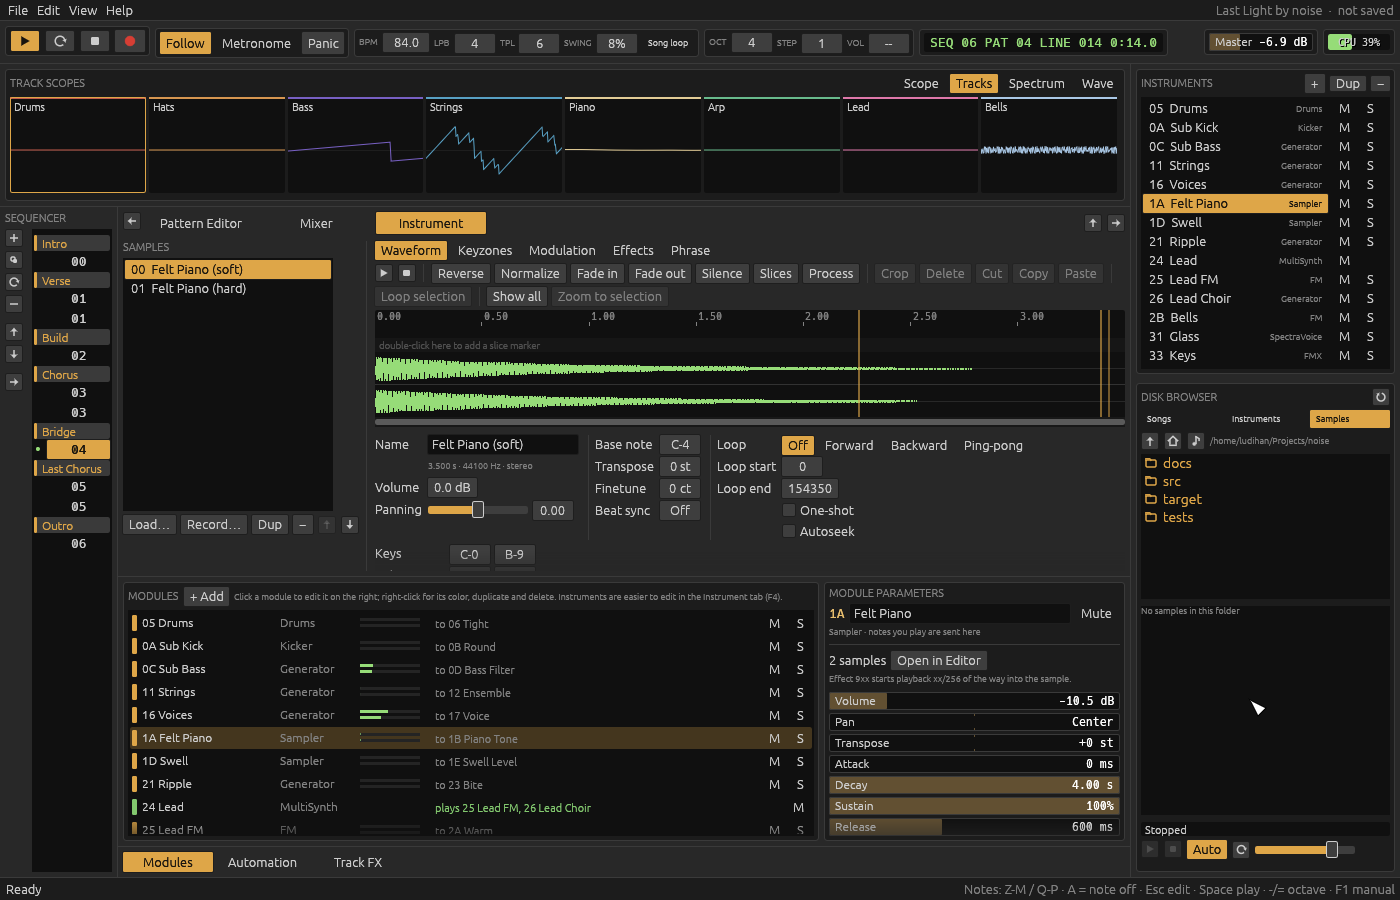
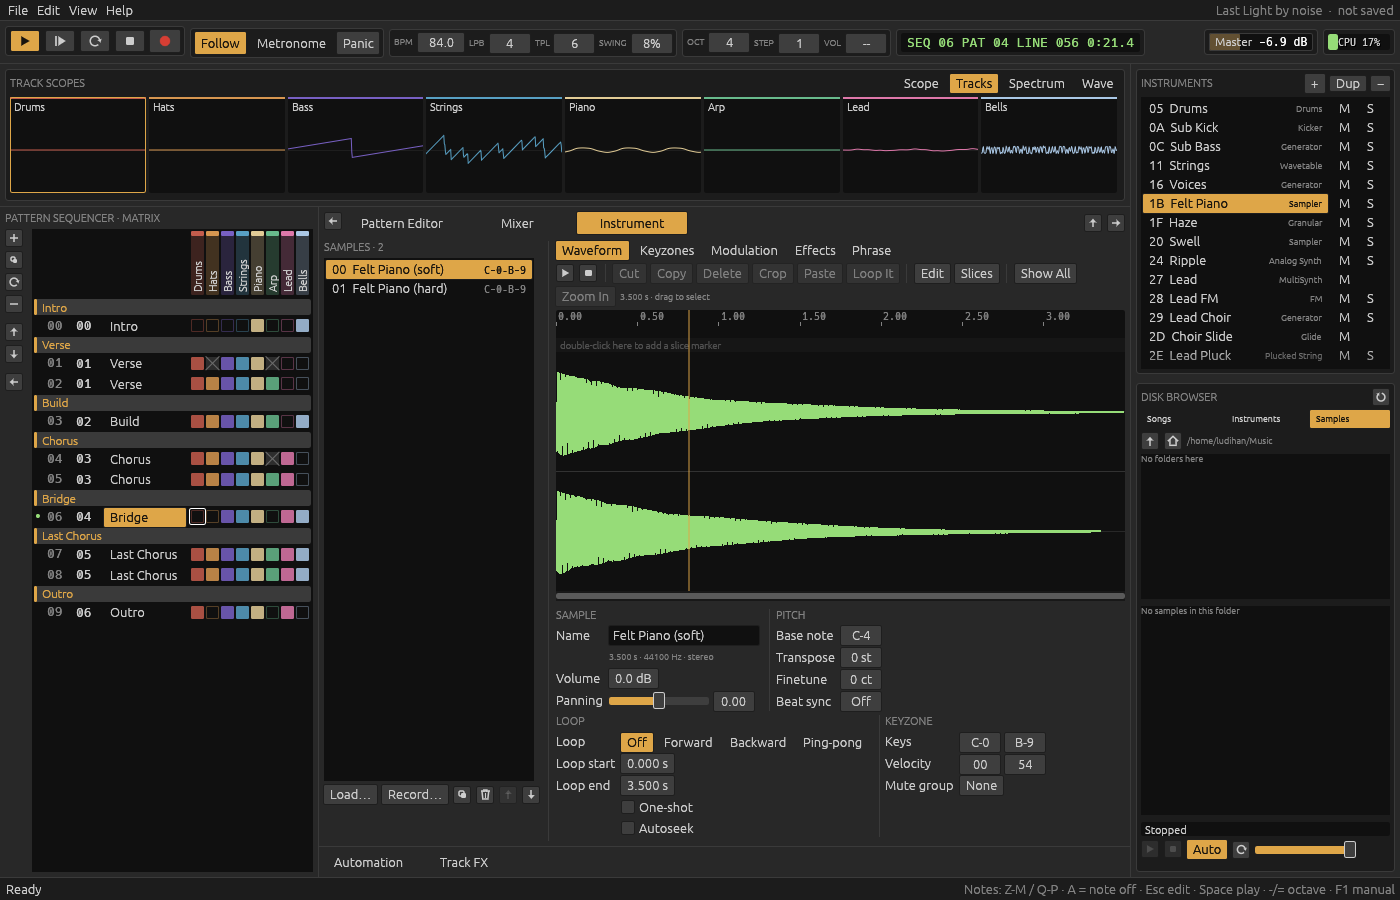
Refresh the README's screenshots
The mixer, sampler and automation pictures still showed the module
list. A docs test now draws them as the demo songs play, waiting on
the play position, so the sound card can be a silent one.

diff --git a/src/ui/shots.rs b/src/ui/shots.rs
@@ -143,3 +143,55 @@ fn shots() {
         app.palette.preset = Some("rev".into());
     });
 }
+
+/// The README's pictures, `docs/*.png`, drawn once the song has played
+/// to `until`, an order position and line: this needs a sound card, so
+/// point it at a silent one.
+fn doc_shot(name: &str, until: Option<(usize, usize)>, setup: impl FnOnce(&mut App)) {
+    let mut harness =
+        Harness::builder().with_size([1400.0, 900.0]).wgpu().build_eframe(|cc| App::start(cc, None, true));
+    let app = harness.state_mut();
+    app.scope_view = super::ScopeView::Tracks;
+    setup(app);
+    app.status = "Ready".into();
+    let start = std::time::Instant::now();
+    while until.is_some_and(|u| harness.state().play_position() < u) {
+        assert!(start.elapsed().as_secs() < 60, "the song never got there");
+        harness.step();
+        std::thread::sleep(std::time::Duration::from_millis(2));
+    }
+    harness.run_steps(2);
+    let image = harness.render().expect("render");
+    let dir = std::env::var_os("NOISE_SHOTS")
+        .map_or_else(|| PathBuf::from(env!("CARGO_MANIFEST_DIR")).join("target/shots/docs"), PathBuf::from);
+    std::fs::create_dir_all(&dir).unwrap();
+    image.save(dir.join(format!("{name}.png"))).unwrap();
+}
+
+#[test]
+#[ignore = "plays the demo songs on the sound card; run with --ignored"]
+fn docs() {
+    doc_shot("main", None, |_| {});
+    doc_shot("mixer", Some((2, 40)), |app| {
+        app.view = View::Mixer;
+        app.slot = 2;
+        app.toggle_play();
+    });
+    doc_shot("sampler", Some((6, 56)), |app| {
+        // The felt piano in Last Light's bridge.
+        app.open_demo(0);
+        let piano = app.project.modules.iter().find(|m| m.name == "Felt Piano").expect("the felt piano").id;
+        app.select(Some(piano));
+        app.view = View::Sampler;
+        app.slot = 6;
+        app.toggle_play();
+    });
+    doc_shot("automation", Some((5, 48)), |app| {
+        // The choir's vowel moving through Last Light's chorus.
+        app.open_demo(0);
+        app.slot = 5;
+        (app.lower, app.show_lower, app.lower_height) = (super::Lower::Automation, true, 270.0);
+        super::automation::pick(app, &[]);
+        app.toggle_play();
+    });
+}

diff --git a/README.md b/README.md
@@ -176,9 +176,11 @@ keep sounding while you edit during playback.
   with `App::start(cc, None, false)`, which has no sound card, draws views
   with `egui_kittest` on the GPU or its software stand-in, and writes them
   to `target/shots` (or `NOISE_SHOTS`). Add a `shot` there for a new view.
-  For `docs/*.png` with the song playing, let real time pass with `step`
-  and short sleeps, and keep a copy of `~/.config/noise/settings.json`,
-  which the app writes when it closes.
+  `cargo test --release docs -- --ignored` draws `docs/*.png` with the
+  songs playing, so it opens the sound card: run it with `HOME` and the
+  XDG folders in a spare folder whose `.asoundrc` has
+  `pcm.!default { type null }`, which keeps it silent and your settings
+  untouched (keep `RUSTUP_HOME` and `CARGO_HOME` pointing at yours).
 
 ## TODO
 
